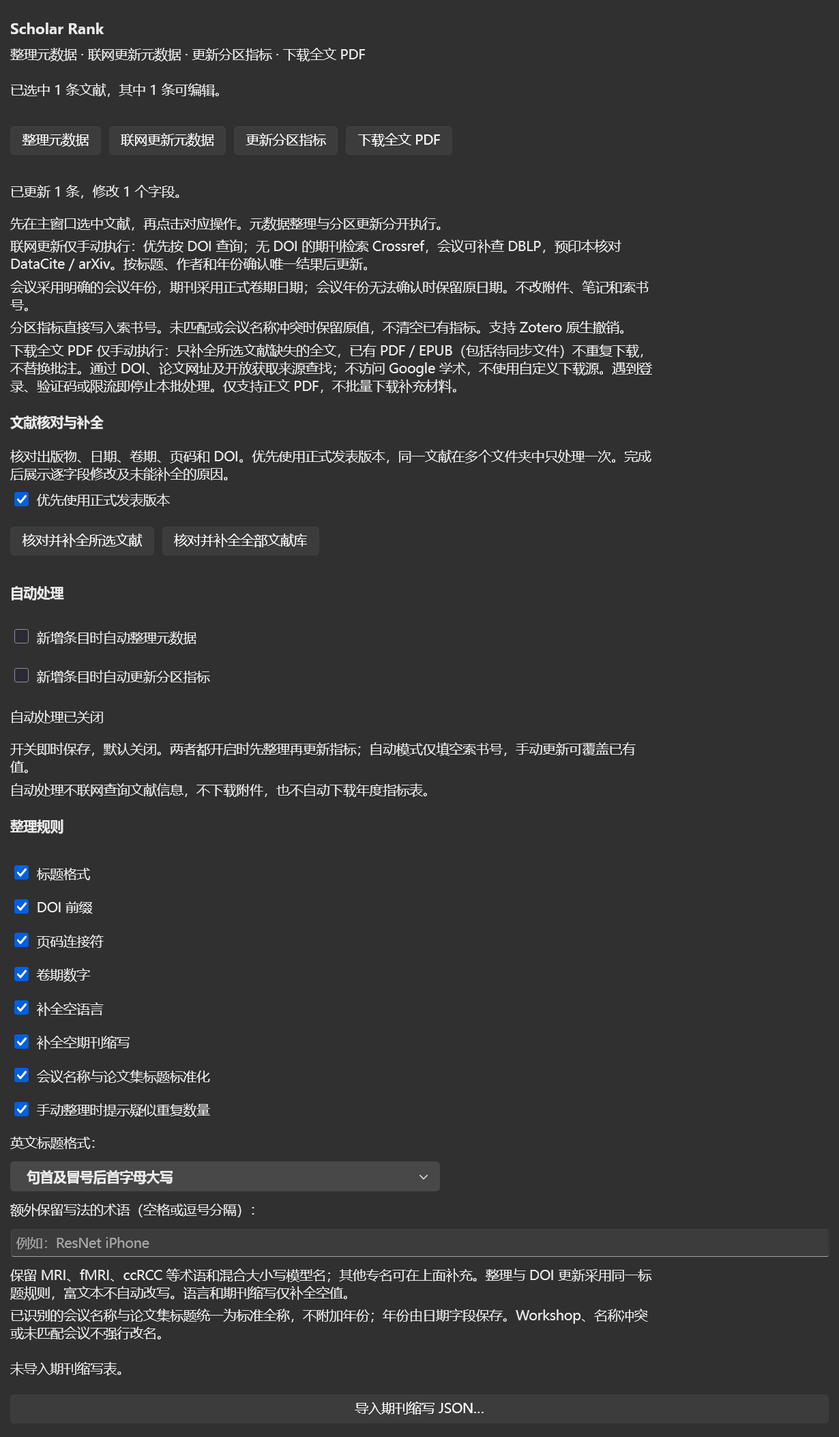
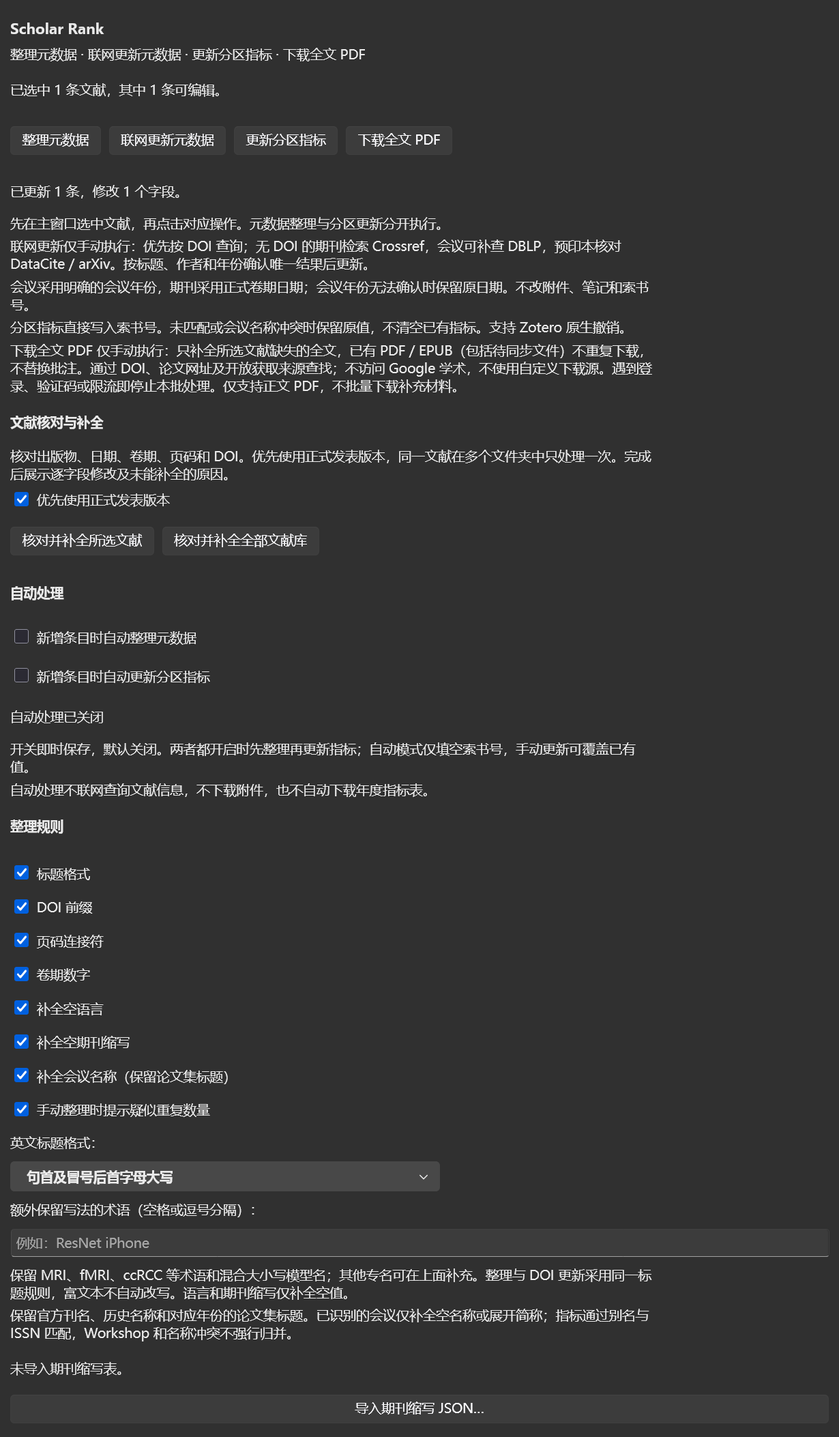
Preserve official publication names and match metric identities through aliases
Keep annual proceedings titles, distinguish historical journal identities,
link verified ISSNs between datasets, and preserve official names in BibTeX.

Changed region(s): [[0.0, 0.8951, 0.7724, 0.9568], [0.0618, 0.7407, 0.278, 0.7716]]

diff --git a/src/core.js b/src/core.js
@@ -22,6 +22,39 @@
     return [...result];
   }
 
+  // Distinct publication identities, including discontinued titles. A successor
+  // is deliberately not an alias: its present-day metrics cannot be inherited.
+  // Names/ISSNs: IEEE SMC title-change notice, DOI 10.1109/TSMCA.2012.2224500,
+  // and the registered ISSNs in the journal datasets. See docs/VENUE_NAMES.md.
+  const JOURNALS = [
+    {id:"tsmc-systems",title:"IEEE Transactions on Systems, Man, and Cybernetics: Systems",issns:["2168-2216","2168-2232"],aliases:["IEEE Transactions on Systems Man Cybernetics-Systems","IEEE Transactions on Systems, Man and Cybernetics: Systems"]},
+    {id:"tsmc-a",title:"IEEE Transactions on Systems, Man, and Cybernetics, Part A: Systems and Humans",issns:["1083-4427","1558-2426"],aliases:["IEEE Transactions on Systems, Man, and Cybernetics Part A: Systems and Humans","IEEE Transactions on Systems Man and Cybernetics Part A-Systems and Humans"]},
+    {id:"tsmc-b",title:"IEEE Transactions on Systems, Man, and Cybernetics, Part B (Cybernetics)",issns:["1083-4419","1941-0492"],aliases:["IEEE Transactions on Systems, Man, and Cybernetics Part B: Cybernetics","IEEE Transactions on Systems Man and Cybernetics Part B-Cybernetics","IEEE Transactions on Systems, Man, and Cybernetics, Part B: Cybernetics"]},
+    {id:"tsmc-c",title:"IEEE Transactions on Systems, Man, and Cybernetics, Part C: Applications and Reviews",issns:["1094-6977","1558-2442"],aliases:["IEEE Transactions on Systems, Man, and Cybernetics Part C: Applications and Reviews","IEEE Transactions on Systems Man and Cybernetics Part C-Applications and Reviews"]},
+    {id:"tsmc-original",title:"IEEE Transactions on Systems, Man, and Cybernetics",issns:["0018-9472","2168-2909"],aliases:[]},
+    {id:"tcyb",title:"IEEE Transactions on Cybernetics",issns:["2168-2267","2168-2275"],aliases:[]},
+    {id:"thms",title:"IEEE Transactions on Human-Machine Systems",issns:["2168-2291","2168-2305"],aliases:[]},
+    {id:"tnn",title:"IEEE Transactions on Neural Networks",issns:["1045-9227","1941-0093"],aliases:[]},
+    {id:"tnnls",title:"IEEE Transactions on Neural Networks and Learning Systems",issns:["2162-237X","2162-2388"],aliases:[]}
+  ];
+  const JOURNAL_NAMES = new Map(), JOURNAL_ISSNS = new Map();
+  for (const journal of JOURNALS) {
+    for (const name of [journal.title,...journal.aliases]) JOURNAL_NAMES.set(normalizeTitle(name),journal);
+    for (const issn of normalizeISSNs(journal.issns)) JOURNAL_ISSNS.set(issn,journal);
+  }
+
+  function journalIdentity(item) {
+    const named = JOURNAL_NAMES.get(normalizeTitle(item.publicationTitle || item.title));
+    const byISSN = [...new Set(normalizeISSNs(item.ISSN || item.issns).map(issn=>JOURNAL_ISSNS.get(issn)).filter(Boolean))];
+    if (byISSN.length > 1 || (named && byISSN.some(journal=>journal !== named))) return {reason:"journal-identity-conflict"};
+    return {record:named || byISSN[0] || null};
+  }
+
+  function journalNames(record) {
+    const identity = journalIdentity(record).record;
+    return [...new Set([record.title,...(record.aliases || []),...(identity ? [identity.title,...identity.aliases] : [])])];
+  }
+
   function validYear(value) {
     return Number.isInteger(value) && value >= 2000 && value <= 2100;
   }
@@ -77,16 +110,23 @@
     if (!list.includes(record)) list.push(record);
   }
 
-  function indexDataset(input) {
+  function indexDataset(input, sharedISSNs = new Map()) {
     const dataset = validateDataset(input);
     const names = new Map(), issns = new Map();
     for (const record of dataset.records) {
       const prefix = dataset.kind === "ccf" ? `${record.type}:` : "";
-      for (const name of [record.title, ...record.aliases, record.abbreviation]) {
+      const journal = dataset.kind !== "ccf" || record.type === "journal";
+      const namesForRecord = journal ? journalNames(record) : [record.title,...record.aliases];
+      for (const name of [...namesForRecord, record.abbreviation]) {
         const normalized = normalizeTitle(name);
         if (normalized) addToIndex(names, prefix + normalized, record);
       }
-      for (const issn of record.issns) addToIndex(issns, issn, record);
+      const identity = journal ? journalIdentity(record).record : null;
+      const linked = journal ? namesForRecord.flatMap(name => {
+        const entry = sharedISSNs.get(normalizeTitle(name));
+        return entry?.identities.size === 1 ? [...entry.issns] : [];
+      }) : [];
+      for (const issn of new Set([...record.issns,...(identity?.issns || []),...linked])) addToIndex(issns, issn, record);
     }
     return { dataset, names, issns };
   }
@@ -108,6 +148,7 @@
 
   function journalMatch(index, item) {
     if (!index) return { record: null, reason: "no-dataset" };
+    if (journalIdentity(item).reason) return {record:null,reason:"journal-identity-conflict"};
     const found = normalizeISSNs(item.ISSN).flatMap(issn => index.issns.get(issn) || [])
       .filter(record => index.dataset.kind !== "ccf" || record.type === "journal");
     const prefix = index.dataset.kind === "ccf" ? "journal:" : "";
@@ -130,6 +171,17 @@
     const ordinal = "(?:(?:twenty|thirty|forty|fifty|sixty|seventy|eighty|ninety)\\s+)?(?:first|second|third|fourth|fifth|sixth|seventh|eighth|ninth|tenth|eleventh|twelfth|thirteenth|fourteenth|fifteenth|sixteenth|seventeenth|eighteenth|nineteenth|twentieth|thirtieth|fortieth|fiftieth|sixtieth|seventieth|eightieth|ninetieth|hundredth)";
     let name = normalizeTitle(value).replace(new RegExp("\\b(" + ordinal + ")(?=international\\b)", "g"), "$1 ");
     const short = normalizeTitle(abbreviation);
+    // DBLP's full proceedings titles may append acronym, year and location.
+    // Strip that bibliographic suffix only after an explicit acronym/year pair;
+    // the remaining full title must still agree (CCC collisions stay rejected).
+    const parts = String(value || "").split(",");
+    if (short && parts.length > 1 && new RegExp("^"+short+" ?(?:(?:19|20)\\d{2}|\\d{2})(?: |$)").test(normalizeTitle(parts.slice(1).join(" ")))) name = normalizeTitle(parts[0]);
+    if (short === "pricai" && /^pricai (?:19|20)\d{2} trends in artificial intelligence$/.test(name)) {
+      name = "pacific rim international conference on artificial intelligence";
+    }
+    if (["usenixsecurity","usenix security"].includes(short)
+        && /^(?:\d+(?:st|nd|rd|th) )?usenix security symposium(?: usenix security (?:\d{2}|(?:19|20)\d{2}))?$/.test(name)) name = "usenix security symposium";
+    if (short.length >= 3) name = name.replace(new RegExp("\\b"+short+"(?=(?:\\d{2}|(?:19|20)\\d{2})\\b)","g"),short+" ");
     // This proceedings series uses a volume number instead of a conference
     // prefix. NIPS is the older name of the same meeting.
     if (short === "neurips") {
@@ -145,7 +197,7 @@
       if (match) name = match.index ? name.slice(0, match.index).trim() : short;
     }
     name = name.replace(/\s+(?:19|20)\d{2}$/, "");
-    const leading = new RegExp("^(?:(?:proceedings|of|the|ieee|acm|cvf|iapr|international|annual|conference|on|\\d+(?:st|nd|rd|th)?|" + ordinal + ")\\s+)+");
+    const leading = new RegExp("^(?:(?:proceedings|of|the|ieee\\s+computer\\s+society|ieee|acm|cvf|iapr|international|annual|conference|on|\\d+(?:st|nd|rd|th)?|" + ordinal + ")\\s+)+");
     name = name.replace(leading, "");
     // SIGKDD may precede either 'Conference' or 'International Conference'.
     if (short && name.startsWith(short + " ")) name = name.slice(short.length).trim().replace(leading, "");
@@ -200,12 +252,25 @@
 
   class Catalog {
     constructor(datasets) {
+      this.datasets = {};
       this.indexes = {};
       for (const data of datasets) this.replace(data);
     }
     replace(data) {
-      const index = indexDataset(data);
-      this.indexes[data.kind] = index;
+      this.datasets[data.kind] = validateDataset(data);
+      const shared = new Map();
+      for (const dataset of Object.values(this.datasets)) for (const record of dataset.records) {
+        if (dataset.kind === "ccf" && record.type !== "journal") continue;
+        const identity = journalIdentity(record).record;
+        for (const name of journalNames(record)) {
+          const key = normalizeTitle(name);
+          if (!shared.has(key)) shared.set(key,{identities:new Set(),issns:new Set()});
+          const entry = shared.get(key);
+          entry.identities.add(identity?.id || normalizeTitle(record.title));
+          for (const issn of [...record.issns,...(identity?.issns || [])]) entry.issns.add(issn);
+        }
+      }
+      for (const [kind,dataset] of Object.entries(this.datasets)) this.indexes[kind] = indexDataset(dataset,shared);
     }
     list() {
       return Object.values(this.indexes).map(({ dataset: { records, ...metadata } }) => ({ ...metadata, count: records.length }));
@@ -264,7 +329,7 @@
     return { action: "write", callNumber: result.text };
   }
 
-  const api = { Catalog, validateDataset, normalizeTitle, normalizeISSNs, selectQuartile, planUpdate };
+  const api = { Catalog, validateDataset, normalizeTitle, normalizeISSNs, selectQuartile, planUpdate, journalIdentity };
   if (typeof module !== "undefined" && module.exports) module.exports = api;
   else root.ScholarCore = api;
 })(globalThis);

diff --git a/tests/runtime-smoke/bootstrap.js b/tests/runtime-smoke/bootstrap.js
@@ -421,7 +421,7 @@ async function runSmoke(rootURI) {
         meeting.setField("date","2025");meeting.setField("callNumber","Auto must keep");await meeting.saveTx({skipSelect:true});
         const standard="International Conference on Medical Image Computing and Computer-Assisted Intervention";
         await waitFor("automatic conference standardization",()=>!plugin.busy && meeting.getField("conferenceName")===standard,12000);await plugin.pendingAuto;
-        same(meeting.getField("proceedingsTitle"),standard,"Standard full proceedings title without year suffix");
+        same(meeting.getField("proceedingsTitle"),"Medical Image Computing and Computer Assisted Intervention – MICCAI-2005","Historical proceedings title retained");
         same(meeting.getField("date"),"2025","Name cleanup never infers date from 2005 suffix");
         same(meeting.getField("title"),"Fictional meeting test: A study of fMRI","Automatic subtitle capitalization");
         same(meeting.getField("callNumber"),"Auto must keep","Name cleanup respects rank automatic boundary");
@@ -621,7 +621,7 @@ async function runSmoke(rootURI) {
     await record.saveTx({skipSelect:true});
     same((await plugin.updateByDOI([record],{silent:true})).written,1,"Live DBLP metadata update");
     same(record.getField("conferenceName"),"Conference on Neural Information Processing Systems","Standard NeurIPS name");
-    same(record.getField("proceedingsTitle"),record.getField("conferenceName"),"Consistent proceedings title");
+    same(record.getField("proceedingsTitle"),"Advances in Neural Information Processing Systems 34","Official proceedings title retained");
     same(record.getField("DOI"),"","No invented proceedings DOI");
     same((await plugin.apply([record],{silent:true})).written,1,"Separate rank command");
     same(record.getField("callNumber"),"A","Bundled NeurIPS CCF grade");
@@ -659,7 +659,7 @@ async function runSmoke(rootURI) {
     same(record.getField("date"),"2025","Explicit conference year overrides print 2026");
     const standard="International Conference on Medical Image Computing and Computer-Assisted Intervention";
     same(record.getField("conferenceName"),standard,"DOI uses standard conference name");
-    same(record.getField("proceedingsTitle"),standard,"DOI does not restore annual book suffix");
+    same(record.getField("proceedingsTitle"),"Medical Image Computing and Computer Assisted Intervention – MICCAI 2025","DOI restores official annual proceedings title");
     same(record.getField("title"),"Multimodal hypergraph guide learning for non-invasive ccRCC survival prediction","Sentence case and ccRCC protection");
     same(record.itemType,"conferencePaper","Do not convert library item type");
     same(record.getField("extra"),extra,"Conference Extra untouched");
@@ -675,6 +675,26 @@ async function runSmoke(rootURI) {
     same(ccc.hasData,false,"Chinese Control Conference is not Computational Complexity");
     same(plugin.catalog.lookup({itemType:"journalArticle",publicationTitle:"Proceedings of the AAAI Conference on Artificial Intelligence"}).text,"A","AAAI journal-article import");
     return {ICASSP:"B",CCC:"rejected",AAAI:"A"};
+  });
+
+  await step("official-proceedings-survive-cleanup-and-native-bibtex-export", async () => {
+    await guard();
+    const paper=new Zotero.Item("conferencePaper");paper.libraryID=Zotero.Libraries.userLibraryID;
+    const book="Advances in Neural Information Processing Systems 34";
+    for(const [field,value] of Object.entries({title:"Proceedings preservation regression",proceedingsTitle:book,date:"2021",extra}))paper.setField(field,value);
+    paper.setCreators([{creatorType:"author",firstName:"Test",lastName:"Author"}]);
+    await paper.saveTx({skipSelect:true});
+    await plugin.apply([paper],{metadata:true,silent:true});await plugin.apply([paper],{silent:true});
+    same(paper.getField("proceedingsTitle"),book,"Official book title retained");
+    same(paper.getField("conferenceName"),"Conference on Neural Information Processing Systems","Separate meeting name");
+    same(paper.getField("callNumber"),"A","Aliases identify CCF A");
+    const translator=new Zotero.Translate.Export();translator.setItems([paper]);
+    const exporters=await Zotero.Translators.getAllForType("export");
+    const bibtex=exporters.find(candidate=>candidate.label==="BibTeX");check(bibtex,"Native BibTeX translator available");
+    translator.setTranslator(bibtex);await translator.translate();
+    const output=translator.string;await IOUtils.writeUTF8(PathUtils.join(smokeConfig.dataDir,"native-proceedings.bib"),output);
+    check(typeof output==="string"&&output.replace(/[{}]/g,"").toLowerCase().includes(book.toLowerCase()),"BibTeX retains official proceedings title");
+    return {officialBook:book,rank:"A",nativeBibTeX:true};
   });
 
   await step("four-report-conferences-recover-ranks-without-clearing-conflicts", async () => {
@@ -700,11 +720,11 @@ async function runSmoke(rootURI) {
     smokePreviews.add(dialog);
     same([...dialog.document.querySelectorAll('tr[data-field="callNumber"]')].map(row=>[...row.querySelectorAll('td')].map(cell=>cell.textContent)),expected.map(rank=>["索书号（分区指标）","（空）",rank]),"Before/after reports actual restored values");
     same((await plugin.apply(items,{silent:true})).unchanged,4,"Repeating update cannot clear ranks");
-    same((await plugin.apply(items,{metadata:true,silent:true})).written,4,"Standardize four conference names");
+    same((await plugin.apply(items,{metadata:true,silent:true})).written,2,"Fill missing/abbreviated conference names");
     for (let i=0;i<items.length;i++) {
       const standard=i===0 ? "ACM SIGKDD Conference on Knowledge Discovery and Data Mining" : "International Joint Conference on Artificial Intelligence";
-      same(items[i].getField("conferenceName"),standard,"Conference name standardized");
-      same(items[i].getField("proceedingsTitle"),standard,"Proceedings title standardized");
+      same(items[i].getField("conferenceName"),i<2 ? standard : definitions[i][1],"Official full conference names retained");
+      same(items[i].getField("proceedingsTitle"),definitions[i][2],"Official proceedings title retained");
       same(items[i].getField("date"),definitions[i][3],"Offline name cleanup preserves date");
       same(items[i].getField("callNumber"),expected[i],"Metadata cleanup preserves rank");
       same(items[i].getField("extra"),extra,"Extra unchanged");

diff --git a/src/publications.js b/src/publications.js
@@ -90,6 +90,8 @@
     }
     for (const field of Metadata.DOI_FIELDS) {
       const value = text(source[field]);
+      if (field === "proceedingsTitle" && source.source === "DBLP" && text(item[field])
+          && /^[\p{L}\p{N}-]{2,15}$/u.test(value)) continue;
       if (value && value.length <= 100000 && !/\u0000/.test(value) && value !== text(item[field])) fields[field] = value;
     }
     const after = {...item, ...fields, itemType: source.itemType};
@@ -189,7 +191,13 @@ SELECT ?paper ?title ?year ?eventYear ?venue ?url ?doi ?pages ?volume ?issue ?na
       if (name.startsWith("citation_") && attrs.content) values[name] = attrs.content;
     }
     const first = values.citation_firstpage, last = values.citation_lastpage;
+    const bibBook = html.match(/\bbooktitle\s*=(?:\s|\\[nrt])*{((?:[^{}]|{[^{}]*})+)}/i)
+      || html.match(/\bbooktitle\s*=(?:\s|\\[nrt])*"([^"\r\n]+)"/i);
     return {title:values.citation_title, arxivID:values.citation_arxiv_id, DOI:values.citation_doi,
+      proceedingsTitle:values.citation_book_title
+        || (bibBook ? decode(bibBook[1]).replace(/[{}]/g,"").replace(/\\[nrt]/g," ").replace(/\s+/g," ").trim() : undefined)
+        || values.citation_conference_title
+        || html.match(/>\s*(Advances in Neural Information Processing Systems\s+\d{1,3})(?=\s*(?:<|\())/i)?.[1],
       volume:values.citation_volume, issue:values.citation_issue,
       pages:first ? last && last !== first ? first + "–" + last : first : undefined};
   }
@@ -229,7 +237,7 @@ SELECT ?paper ?title ?year ?eventYear ?venue ?url ?doi ?pages ?volume ?issue ?na
       let url;
       try { url = new URL(source.url); } catch (_) { return source; }
       if (!["https:","http:"].includes(url.protocol) || url.username || url.password) return source;
-      const allowed = ["proceedings.neurips.cc","papers.nips.cc","proceedings.mlr.press","jmlr.org","www.jmlr.org","openaccess.thecvf.com","aclanthology.org","www.ijcai.org"];
+      const allowed = ["proceedings.neurips.cc","papers.nips.cc","proceedings.mlr.press","jmlr.org","www.jmlr.org","openaccess.thecvf.com","aclanthology.org","www.ijcai.org","www.usenix.org"];
       if (!allowed.includes(url.hostname)) return source;
       url.protocol = "https:";
       const html = await this.get("publisher",url.href,url.href);
@@ -237,6 +245,7 @@ SELECT ?paper ?title ?year ?eventYear ?venue ?url ?doi ?pages ?volume ?issue ?na
       if (Search.titleKey(fields.title) !== Search.titleKey(source.title)) return source;
       const updated = {...source};
       for (const field of ["volume","issue","pages"]) if (text(fields[field])) updated[field] = fields[field].trim();
+      if (source.itemType === "conferencePaper" && text(fields.proceedingsTitle)) updated.proceedingsTitle = fields.proceedingsTitle.trim();
       updated.publisherURL = url.href;
       return updated;
     }

diff --git a/prefs-pane.js b/prefs-pane.js
@@ -27,7 +27,7 @@ var ScholarRankPrefs = {
     terms.value = plugin.pref("metadata.protectedTerms") || "";
     titleCase.addEventListener("change", () => plugin.setPref("metadata.titleCase", titleCase.value));
     terms.addEventListener("input", () => plugin.setPref("metadata.protectedTerms", terms.value));
-    const names = { title: "标题格式", doi: "DOI 前缀", pages: "页码连接符", numbers: "卷期数字", language: "补全空语言", abbreviation: "补全空期刊缩写", conference: "会议名称与论文集标题标准化", duplicates: "手动整理时提示疑似重复数量" };
+    const names = { title: "标题格式", doi: "DOI 前缀", pages: "页码连接符", numbers: "卷期数字", language: "补全空语言", abbreviation: "补全空期刊缩写", conference: "补全会议名称（保留论文集标题）", duplicates: "手动整理时提示疑似重复数量" };
     const rules = doc.getElementById("zsr10-metadata-rules"); rules.replaceChildren();
     for (const [key, name] of Object.entries(names)) {
       const label = doc.createElementNS("http://www.w3.org/1999/xhtml", "label");

diff --git a/src/metadata.js b/src/metadata.js
@@ -93,7 +93,12 @@
     const matched = names.map(name => catalog.lookup({ itemType: "conferencePaper", proceedingsTitle: name }).provenance?.ccf?.matchedTitle);
     if (matched.some(name => !name) || new Set(matched).size !== 1) return {};
     const standard = matched[0].trim().replace(/\s+/g, " ").replace(/\s*,\s*/g, ", ").replace(/\s*&\s*/g, " & ");
-    return Object.fromEntries(["conferenceName", "proceedingsTitle"].filter(field => text(item[field]) !== standard).map(field => [field, standard]));
+    // The proceedings book title is citation metadata, not the CCF series name.
+    // Preserve official full names (including historical ones); only expand a
+    // missing/acronym-only conference-name field after consistent identification.
+    const current = text(item.conferenceName).trim();
+    return !current || /^[\p{L}\p{N}-]{2,15}$/u.test(current)
+      ? current === standard ? {} : {conferenceName:standard} : {};
   }
 
   function plan(item, options = {}, abbreviations = new Abbreviations(), catalog = null) {

diff --git a/src/search.js b/src/search.js
@@ -185,7 +185,12 @@ SELECT ?paper ?title ?year ?venue ?url ?name ?ordinal WHERE {
     if (found.length !== 1) return {action:"skip",reason:found.length ? "search-ambiguous" : "search-no-match",fields:{}};
     // DBLP author names are used to verify identity. Preserve Zotero's name
     // components instead of guessing surname boundaries from a display name.
-    return verifiedPlan(item,found[0],options,catalog,false);
+    const source={...found[0]};
+    if (item.proceedingsTitle && /^[\p{L}\p{N}-]{2,15}$/u.test(source.proceedingsTitle || "")) {
+      source.conferenceName = source.proceedingsTitle;
+      delete source.proceedingsTitle;
+    }
+    return verifiedPlan(item,source,options,catalog,false);
   }
 
   function arxivDOI(item) {

diff --git a/scripts/export-source.py b/scripts/export-source.py
@@ -51,6 +51,7 @@ FILES = (
     "docs/PUBLISHING.md",
     "docs/DATA_FORMAT.md",
     "docs/TESTING.md",
+    "docs/VENUE_NAMES.md",
     "docs/images/scholar-rank-display.png",
     "docs/images/scholar-rank-settings.png",
     "docs/images/scholar-rank-results.png",

diff --git a/docs/INSTALL.md b/docs/INSTALL.md
@@ -26,7 +26,7 @@
 
 联网更新元数据时，有 DOI 则向查询服务发送 DOI；无 DOI 时使用 Crossref 检索，会议可补查 DBLP，预印本使用 DataCite。检索会发送标题词、作者及必要的年份等出版信息，arXiv 地址或编号可用于定位预印本。不上传附件、全文、摘要、笔记或整个文献库。元数据更新不改条目类型、标签、附件、笔记、Extra 和索书号，不创建重复文献；若需要重算指标，再执行第三项。服务返回信息可能不完整，请自行核对。
 
-**会议名称标准化**默认随元数据整理启用：将“会议名称”和“会议论文集标题”统一为目录中的标准全称，例如 MICCAI 对应 `International Conference on Medical Image Computing and Computer-Assisted Intervention`，不追加 `MICCAI-2025`。自动整理、手动整理和 DOI 更新使用同一规则；日期独立处理，不从名称里的年份推断。未匹配、两个名称冲突或 Workshop 等附属会议不强行改名；设置中可以关闭该规则。分区指标操作本身仍只修改索书号。
+**补全会议名称**默认随元数据整理启用：仅补全空的会议名称或展开已确认的简称，保留已有官方全称和论文集标题。联网更新采用出版来源提供的论文集标题，DBLP 简称不会覆盖已有完整标题。指标通过别名、历史名称和 ISSN 匹配；旧分刊与后继刊物分开，不套用后继刊物的当年指标。详见[名称处理规则](VENUE_NAMES.md)。
 
 不再提供备份/恢复入口，也不生成任何新的 Extra 状态。旧版留下的 Extra 内容保持原样，不再作为更新锁定条件，不自动删除。错误操作可使用 Zotero 自带的撤销/重做；关闭后不能依赖本插件做长期恢复。
 正在查询时条目被其他操作修改、变为只读或插件停用，会跳过写入。保存失败时当前事务回滚。

diff --git a/docs/VENUE_NAMES.md b/docs/VENUE_NAMES.md
@@ -1,0 +1,12 @@
+# 刊名、会议与论文集名称
+
+出版字段保存正式名称，指标匹配在内部进行，不改写出版字段。
+
+- 期刊保留发表时的官方刊名。匹配时兼容大小写、标点、`&` / `and`、经过核实的名称别名和印刷/电子 ISSN。
+- 会议名称仅在空缺或只有简称时补全。论文集标题保留年份、卷次及 Workshop 等必要区别。
+- 例如 NeurIPS 的会议名可为 `Conference on Neural Information Processing Systems`，2021 年论文集为 `Advances in Neural Information Processing Systems 34`。二者分别保存在对应字段。
+- CCF、JCR 和中科院表分别匹配；同刊的已确认 ISSN 可在表之间关联。标题和 ISSN 指向不同刊物时跳过，不猜测。
+- 历史名称不等于后继刊物：TSMC 的旧 Part A/B/C、原始 TSMC，以及 Systems、Cybernetics、Human-Machine Systems 分别识别。最新表未收录旧刊时不借用后继刊物的影响因子或分区。
+- DBLP 只提供简称时不覆盖已有完整论文集标题；联网出版来源提供正式标题时可以更新。所有修改仍显示前后对照。
+
+名称关系依据：[CCF 会议目录](https://www.ccf.org.cn/Academic_Evaluation/AI/)、[NeurIPS 官方论文集](https://proceedings.neurips.cc/paper/2021)、[IEEE SMC 更名说明](https://www.ieeesmc.org/publications/transactions-on-smc-systems/)、[IEEE 更名公告 DOI](https://doi.org/10.1109/TSMCA.2012.2224500)。期刊 ISSN 与导入指标表的登记信息交叉核对。

diff --git a/docs/PUBLISHING.md b/docs/PUBLISHING.md
@@ -12,7 +12,7 @@
 python scripts/export-source.py
 ```
 
-默认输出不含指标整表的 `publish/zotero10-scholar/` 和 `dist/zotero10-scholar-3.3.0-source.zip`。
+默认输出不含指标整表的 `publish/zotero10-scholar/` 和 `dist/zotero10-scholar-3.3.1-source.zip`。
 目录已有内容时不会覆盖；重新导出请指定一个新目录，例如：
 
 ```sh
@@ -36,7 +36,7 @@ python scripts/build.py
 python scripts/prepare-smoke.py --auto-close
 ```
 
-唯一产物为 `dist/zotero10-scholar-3.3.0.xpi`，内置 CCF/JCR/CAS 表；缺少任一表会报错。没有额外构建开关或第二种安装包。
+唯一产物为 `dist/zotero10-scholar-3.3.1.xpi`，内置 CCF/JCR/CAS 表；缺少任一表会报错。没有额外构建开关或第二种安装包。
 隔离测试准备工具不会自动启动 Zotero，按[测试说明](TESTING.md)检查路径后启动，并核对实际运行报告。
 
 **本地生成含表 XPI 不等于取得了数据公开再分发权。** 本项目 MIT 许可只覆盖软件，完整指标表的公开发布须另行确认权利人的授权。

diff --git a/README.md b/README.md
@@ -28,7 +28,7 @@
 每次更新后弹出结果窗口，按文献逐项展示 **字段、修改前、修改后**。自动更新共用一个结果窗口；没有变化或未能更新时显示原因。
 
 标题保留 `ccRCC`、`fMRI` 等专业写法，可在设置中补充术语或保留原大小写。会议年份缺少可靠记录时不覆盖日期。
-已识别的会议名称与论文集标题统一为标准全称，不重复附加简称和年份；Workshop 和未匹配会议不强行改名。
+保留官方刊名和对应年份的论文集标题，会议名称仅补全空值或展开简称。指标通过名称别名、历史名称和 ISSN 对应目录，不要求出版名称与指标表文字完全一致；Workshop 与历史分刊分别识别。[名称处理规则](docs/VENUE_NAMES.md)
 
 中科院使用 **2025 升级版大类分区**，不使用新锐分区；指标年份可在设置中查看。
 分区未匹配或会议信息冲突时保留原值，不清空已有指标。

diff --git a/docs/TESTING.md b/docs/TESTING.md
@@ -54,3 +54,5 @@ python scripts/prepare-smoke.py --auto-close
 3.2.1 的独立实机步骤还联网核对 TransMIL 的 DBLP 会议记录、标准 NeurIPS 名称和 CCF A，以及 AllSet 预印本的 DataCite 标题、arXiv DOI、2021 年份和重复更新。
 
 3.3.0 新增全库范围加载、正式版本筛选、改名与关联 DOI、SICI 标识、编辑者保留、停止后保留已完成修改等回归。实机检查包含预印本原地转换、原条目键及文件夹/子附件/笔记、原生撤销/重做，以及 AllSet 真实正式版查找。
+
+3.3.1 新增官方论文集标题保留、历史会议名称、期刊别名及跨表 ISSN 关联、旧分刊与后继刊物隔离的回归。独立原生场景验证 NeurIPS 论文集名称在整理、指标更新和 Zotero BibTeX 导出后保持正确。
